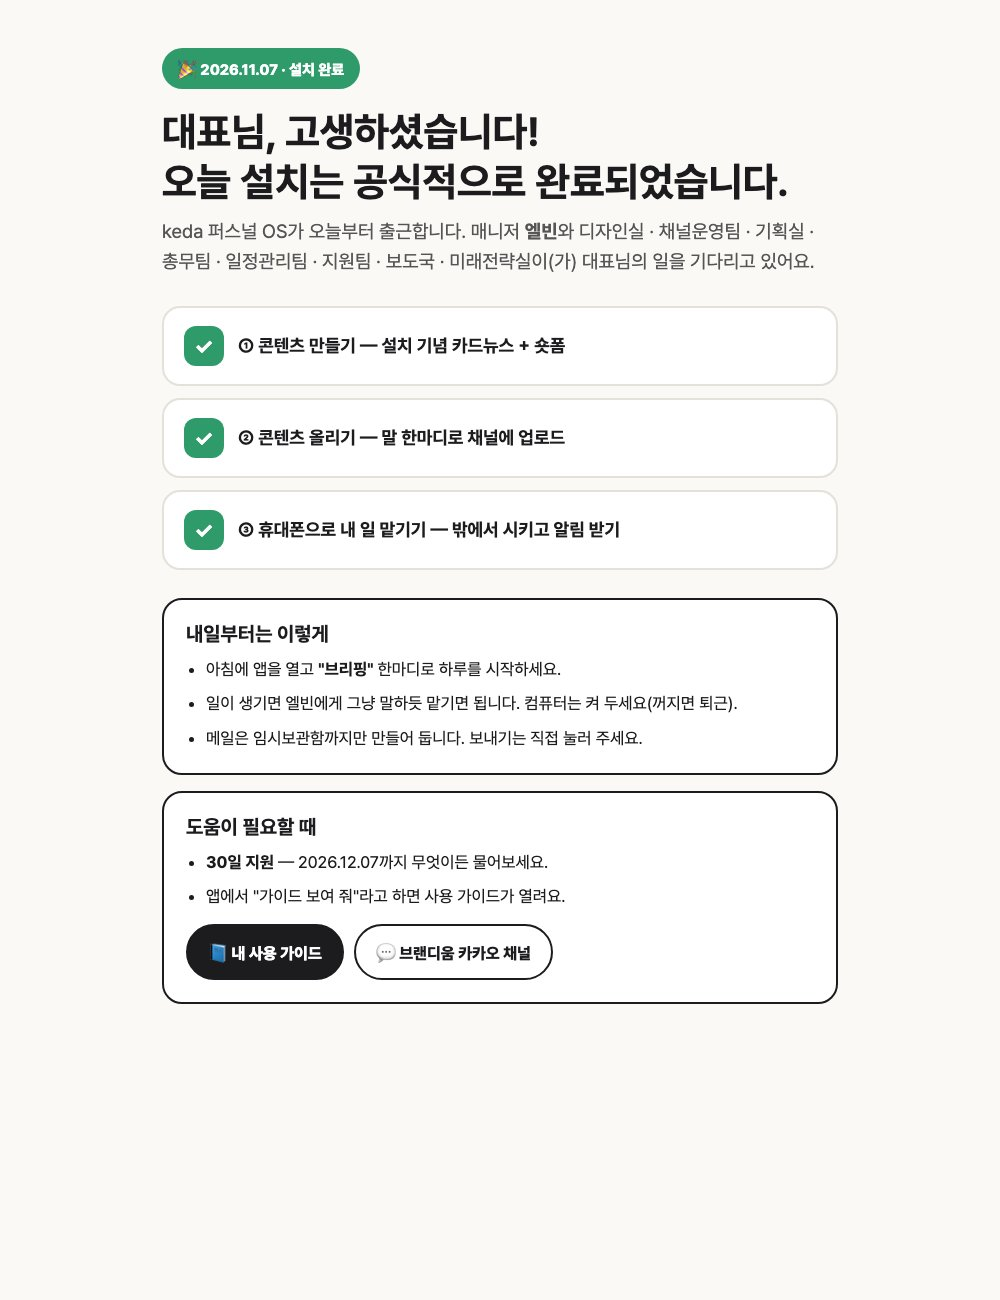
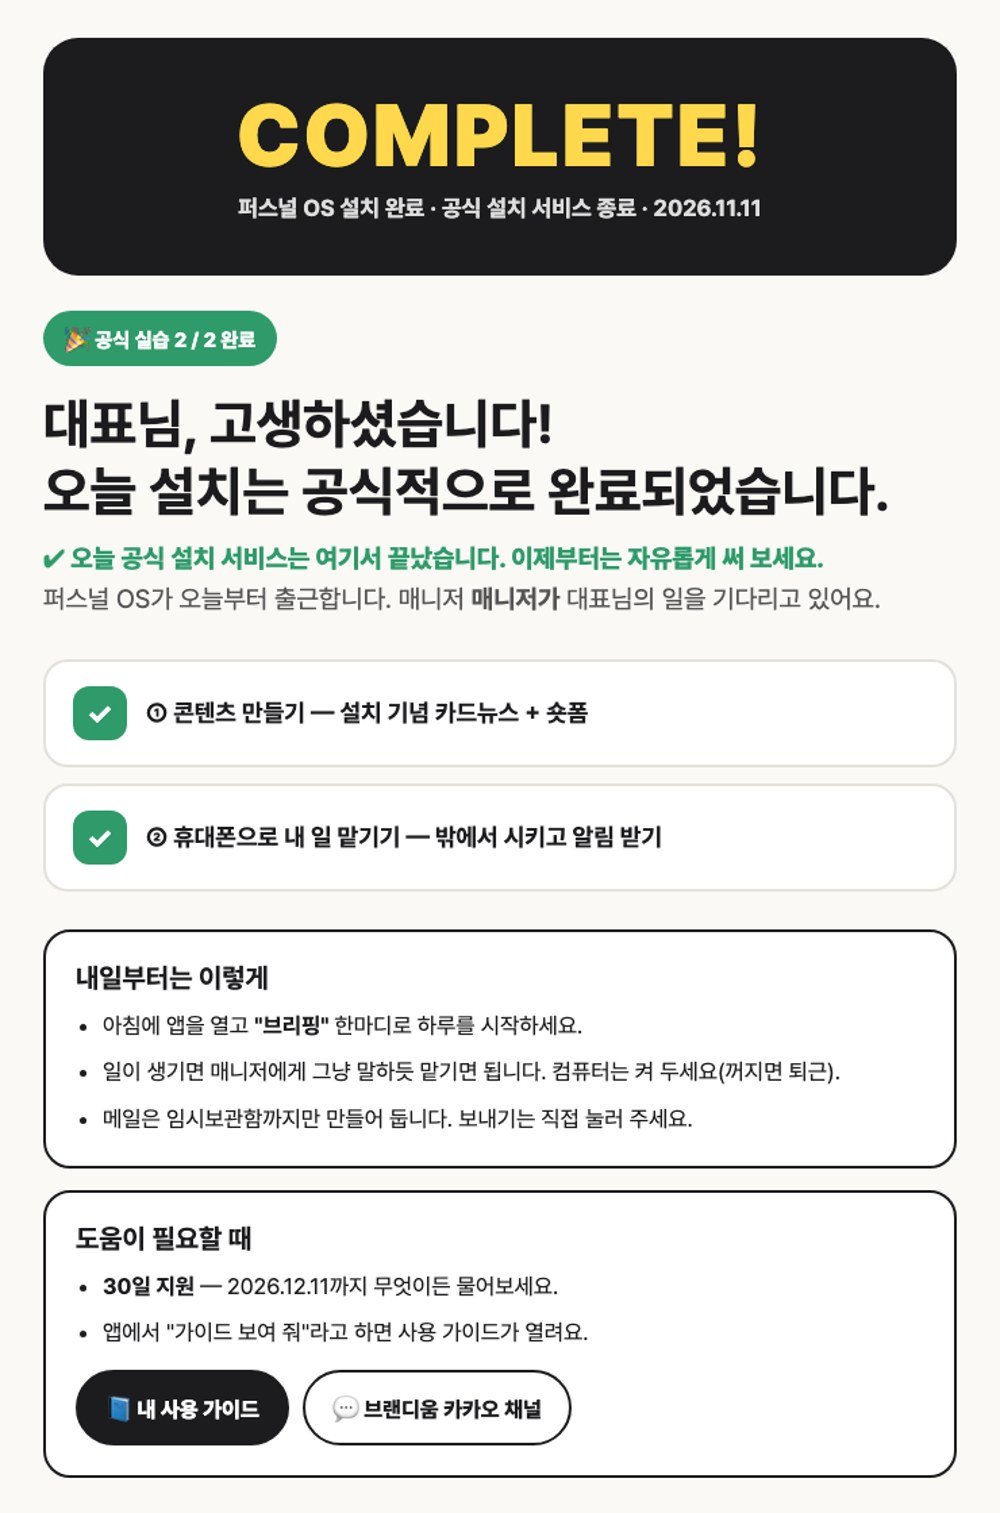
설치 진행판: 실습 2가지·화면 3종·보충 질문 안내·새 완료 화면

diff --git a/install/index.html b/install/index.html
@@ -135,8 +135,8 @@ const S = [
    ["o2", "직접 입력 원칙 + 기록 허락", "로그인·결제·비밀번호는 고객 손으로", 1, 0]]},
  { id: "s2", name: "인터뷰·확정", when: "50분", tip: "2인 이상: 한 분 인터뷰하는 동안 다른 분은 클로드 Max 가입을 먼저 해 두면 시간이 맞아요.",
   items: [
-   ["i1", "인터뷰 끝", "하루 흐름 · 가장 귀찮은 일 3개 · 맡기는 범위", 1, 1],
-   ["i2", "부서·매니저 이름·첫 화면 확정", "제안서를 고객이 직접 읽고 \"네\"", 1, 1]]},
+   ["i1", "인터뷰 끝", "하루 흐름 · 가장 귀찮은 일 3개 · 맡기는 범위 — 페이지마다 AI 보충 질문 1~3개가 떠요, 답하고 넘어가기", 1, 1],
+   ["i2", "부서·매니저 이름·첫 화면(캐릭터형 3종) 확정", "제안서를 고객이 직접 읽고 \"네\"", 1, 1]]},
  { id: "s3", name: "설치", when: "40분", tip: "막히면 15분 넘기지 말고 예비 길로: 와이파이 → 핫스팟 → USB 키트. 2인 이상이면 설치는 동시에 돌려요. 설치가 돌아가는 동안 다음 단계 '이해하기'를 진행하면 시간이 딱 맞아요.",
   items: [
    ["n1", "클로드 Max 결제·로그인", "고객이 직접", 1, 1],
@@ -153,12 +153,11 @@ const S = [
    ["c1", "캘린더·지메일·드라이브·노션 연결", "노션은 필수 — 매일 밤 도서관에 자동 보관", 1, 1],
    ["c2", "휴대폰 홈 화면 + 알림 한 번 받기", "", 1, 1],
    ["c3", "컴퓨터 잠자기 끔", "늘 켜 둬야 일한다는 것 안내", 1, 1]]},
- { id: "s5", name: "실습 3가지", when: "40분", tip: "고객이 직접 말로 시켜요. 세 가지가 끝나면 고객 화면에 '오늘 설치 공식 완료' 화면이 떠요(매니저에게 \"설치 완료\"라고 하면 됨).",
+ { id: "s5", name: "실습 2가지", when: "20분", tip: "고객이 직접 말로 시켜요. 매니저에게 \"공식 실습 시작\" → 진행판(2칸)이 떠요. 두 가지가 끝나면 바로 고객 화면에 '오늘 설치 공식 완료' 화면이 떠요(매니저에게 \"설치 완료\"라고 하면 됨).",
   items: [
    ["x1", "① 콘텐츠 만들기", "\"설치 기념 카드뉴스 만들어 줘\" → 카드 6장 + 우리 직원 캐릭터 숏폼", 1, 1],
-   ["x2", "② 콘텐츠 올리기", "\"인스타·블로그에 올려 줘\" → 업로드 창에서 로그인 한 번 → 올라간 주소 확인", 1, 1],
-   ["x3", "③ 휴대폰으로 내 일 맡기기", "휴대폰에서 인터뷰 때 말한 '가장 귀찮은 일' 하나 → 컴퓨터가 처리 → 알림", 1, 1],
-   ["x4", "🎉 설치 완료 화면이 떴다", "고객 OS 화면에 완료 안내 + 휴대폰 알림", 1, 1]]},
+   ["x3", "② 휴대폰으로 내 일 맡기기", "휴대폰에서 인터뷰 때 말한 '가장 귀찮은 일' 하나 → 컴퓨터가 처리 → 알림", 1, 1],
+   ["x4", "🎉 설치 완료 화면이 떴다", "COMPLETE! · 공식 설치 서비스 종료 표시 + 휴대폰 알림 (콘텐츠 올리기는 이후 원하시면 자유롭게)", 1, 1]]},
  { id: "s6", name: "마무리", when: "15분", tip: "다 체크되면 오늘 설치는 끝이에요. 아래 '설치 완료'를 눌러 기록을 닫아요.",
   items: [
    ["m1", "혼자 앱 켜고 지시 넣을 수 있다", "", 1, 1],
@@ -181,15 +180,14 @@ const MORE = {
  o1: { t: "8단계를 한 화면으로 보여 드리면 고객이 '언제 뭘 하는지' 알고 편하게 따라와요.", btn: [["📺 오늘 순서 보여 주기", "slide:order"]] },
  o2: { t: "\"비밀번호와 결제는 제가 보지 않게 직접 넣어 주세요\" — 신뢰가 생기는 한마디. 사례용 화면 기록은 얼굴·개인정보 가린 뒤에만 쓴다고 함께 말씀드려요." },
  i1: { t: "인터뷰 화면의 칸마다 🎤로 받아쓰기. 막히면 '평소 하루를 처음부터 끝까지 말해 주세요'로 시작하면 쉬워요.", btn: [["🎙 고객 인터뷰 화면", "../start/"]] },
- i2: { t: "부서 이름은 고객이 쓰는 말로(강의실·행정실). 첫 화면은 6종 중에서 골라요.", img: [SC + "hq_big.jpg", SC + "village_big.jpg", SC + "cyworld_big.jpg", SC + "minimal_big.jpg", SC + "diary_big.jpg", SC + "magazine_big.jpg"], btn: [["🖼 첫 화면 6종 고르기", "../start/screens/"]] },
+ i2: { t: "부서 이름은 고객이 쓰는 말로(강의실·행정실). 첫 화면은 캐릭터형 3종 중에서 골라요(심플형은 11/11부터 뺐어요).", img: [SC + "hq_big.jpg", SC + "village_big.jpg", SC + "cyworld_big.jpg"], btn: [["🖼 첫 화면 3종 고르기", "../start/screens/"]] },
  n2: { t: "맥: 터미널에 설치 한 줄 붙여넣기 → 끝까지 엔터. 중간에 클로드 로그인 창이 뜨면 고객이 로그인. 15분 넘게 막히면 핫스팟 → USB 키트." },
  n3: { t: "앱이 열리면 매니저가 먼저 인사하고 부서를 소개해요. 고른 첫 화면(예: 본사형)이 보이면 성공.", img: [SC + "hq_big.jpg"] },
  c1: { t: "claude.ai/settings/connectors → Google Calendar · Gmail · Notion 각각 [연결] → 같은 구글 계정으로 허용. 노션이 연결되면 첫날 밤에 도서관 페이지가 저절로 만들어져요.", btn: [["🔗 커넥터 화면 열기", "https://claude.ai/settings/connectors"]] },
  c2: { t: "휴대폰으로 앱 주소 열기 → 공유 → 홈 화면에 추가 → 알림 허용 → 매니저에게 \"알림 시험\" 한 번." },
  x1: { t: "매니저에게 \"설치 기념 카드뉴스 만들어 줘\" 한마디. 고객 OS에 실제로 있는 직원 캐릭터로 카드 6장 + 움직이는 숏폼이 나와요(2~3분).", img: ["img/card01.jpg", "img/card02.jpg", "img/card05.jpg", "img/card06.jpg"], btn: [["▶ 숏폼 예시 보기", "img/shortform.mp4"]] },
- x2: { t: "\"어디에 올려 드릴까요? 여러 개 골라도 돼요\" → 인스타·네이버 블로그(·유튜브). 업로드 창에서 고객이 로그인 한 번(2단계 인증 포함). 블로그는 사진 → 설명 순서로 올라가요.", btn: [["📝 블로그 예시", "https://blog.naver.com/kedakorea/224468725720"], ["📷 인스타 예시", "https://www.instagram.com/brandium__official/p/Dfch5EZk5Kw/"]] },
  x3: { t: "휴대폰 앱에서 인터뷰 때 나온 '가장 귀찮은 일'을 하나 시켜요 → 컴퓨터가 처리 → 끝나면 휴대폰 알림. '밖에서도 된다'는 게 가장 큰 놀람 포인트." },
- x4: { t: "세 가지가 끝나면 고객 화면에 이 완료 화면이 떠요(\"설치 완료\"라고 해도 됨). 30일 지원 마감일·사용 가이드·카카오 채널 버튼이 함께 있어요.", img: ["img/done.jpg"] },
+ x4: { t: "두 가지가 끝나면 바로 고객 화면에 이 완료 화면이 떠요(\"설치 완료\"라고 해도 됨). '공식 설치 서비스 종료'가 함께 보여서 공식 시간이 끝났다는 게 분명해요. 콘텐츠 올리기는 그 뒤 원하시면 자유롭게. 30일 지원 마감일·사용 가이드·카카오 채널 버튼이 함께 있어요.", img: ["img/done.jpg"] },
  m1: { t: "고객이 앱을 닫았다가 직접 열고 \"브리핑\"을 쳐 보게 해요." },
  m3: { t: "브랜디움 카카오 채널 · 바탕화면 '원격도움' 아이콘 · 앱에서 \"가이드 보여 줘\".", btn: [["📘 이용 방법", "../how/"], ["💬 카카오 채널", "https://pf.kakao.com/_gMxogd"]] }
 };
@@ -241,7 +239,7 @@ document.addEventListener("keydown", (e) => { if (!RUN || S[STAGE].id !== "s3b" 
 
 /* ── 노트북으로 보여 주는 설명 화면 ── */
 const SLIDES = {
- order: [`<h2>오늘 이렇게 진행해요</h2><ol class="tl">${["시작 — 오늘 순서", "인터뷰 — 하루·귀찮은 일", "확정 — 부서·매니저·화면", "설치 — 내 컴퓨터에", "이해하기 — 퍼스널 OS란", "연결 — 캘린더·메일·드라이브·노션·휴대폰", "실습 3가지 — 만들고·올리고·맡기고", "🎉 설치 완료"].map((x) => `<li>${x}</li>`).join("")}</ol>`],
+ order: [`<h2>오늘 이렇게 진행해요</h2><ol class="tl">${["시작 — 오늘 순서", "인터뷰 — 하루·귀찮은 일", "확정 — 부서·매니저·화면", "설치 — 내 컴퓨터에", "이해하기 — 퍼스널 OS란", "연결 — 캘린더·메일·드라이브·노션·휴대폰", "실습 2가지 — 만들고·맡기고", "🎉 설치 완료"].map((x) => `<li>${x}</li>`).join("")}</ol>`],
  what: [`<h2>퍼스널 OS는 새 AI가 아니에요</h2><div class="eq"><div><b>🧠 클로드</b><small>지금 가장 일 잘하는 AI</small></div><span>+</span><div><b>💻 내 컴퓨터</b><small>내 파일·내 계정으로 직접</small></div><span>+</span><div><b>🏢 우리 회사 세팅</b><small>부서·매니저·맞춤 화면</small></div><span>=</span><div class="r"><b>퍼스널 OS</b><small>내 컴퓨터에 설치된 우리 회사</small></div></div><p class="big2">새 앱을 배우는 게 아니라, <b>클로드를 내 컴퓨터에 붙이고 내가 일하기 좋게 세팅해 드리는 설치 서비스</b>예요.</p>`,
         `<h2>그래서 이런 게 달라요</h2><div class="cols"><div><b>채팅창 AI</b><ul><li>답을 복사해서 내가 붙여 넣기</li><li>매번 처음부터 설명</li><li>파일은 내가 다시 만들기</li></ul></div><div class="hl"><b>퍼스널 OS</b><ul><li>파일을 직접 만들고 저장</li><li>회사·말투·거래처를 기억</li><li>휴대폰으로 시키면 컴퓨터가 처리</li></ul></div></div>`],
  curve: [`<h2>처음 2주만 버티면 됩니다</h2><svg viewBox="0 0 640 340" class="chart"><rect x="70" y="20" width="150" height="270" fill="#feefb8"/><text x="145" y="44" text-anchor="middle" font-size="15" font-weight="800" fill="#432f2e">버티는 구간</text><line x1="70" y1="290" x2="620" y2="290" stroke="#432f2e" stroke-width="3"/><line x1="70" y1="20" x2="70" y2="290" stroke="#432f2e" stroke-width="3"/><text x="20" y="160" font-size="13" fill="#432f2e" transform="rotate(-90 20 160)" text-anchor="middle">한 가지 일에 드는 시간</text>${["1주", "2주", "3주", "4주", "2달"].map((w, i) => `<text x="${110 + i * 120}" y="314" text-anchor="middle" font-size="14" fill="#432f2e">${w}</text>`).join("")}<line x1="70" y1="150" x2="620" y2="150" stroke="#9a8f8a" stroke-width="4" stroke-dasharray="10 8"/><text x="615" y="140" text-anchor="end" font-size="14" fill="#6b625e">내가 직접 할 때</text><path d="M70 70 C 160 60, 200 120, 260 170 S 420 255, 620 265" fill="none" stroke="#2f9a6a" stroke-width="6"/><text x="610" y="252" text-anchor="end" font-size="16" font-weight="800" fill="#2f9a6a">퍼스널 OS</text><circle cx="236" cy="150" r="9" fill="#c8372d"/><text x="250" y="132" font-size="14" font-weight="800" fill="#c8372d">여기서 역전</text></svg><p class="big2">처음엔 가르치느라 시간이 더 들어요. 하지만 한 번 알려 준 건 <b>지침으로 남아서</b> 다음부터는 말 한마디로 끝나요.</p>`],
